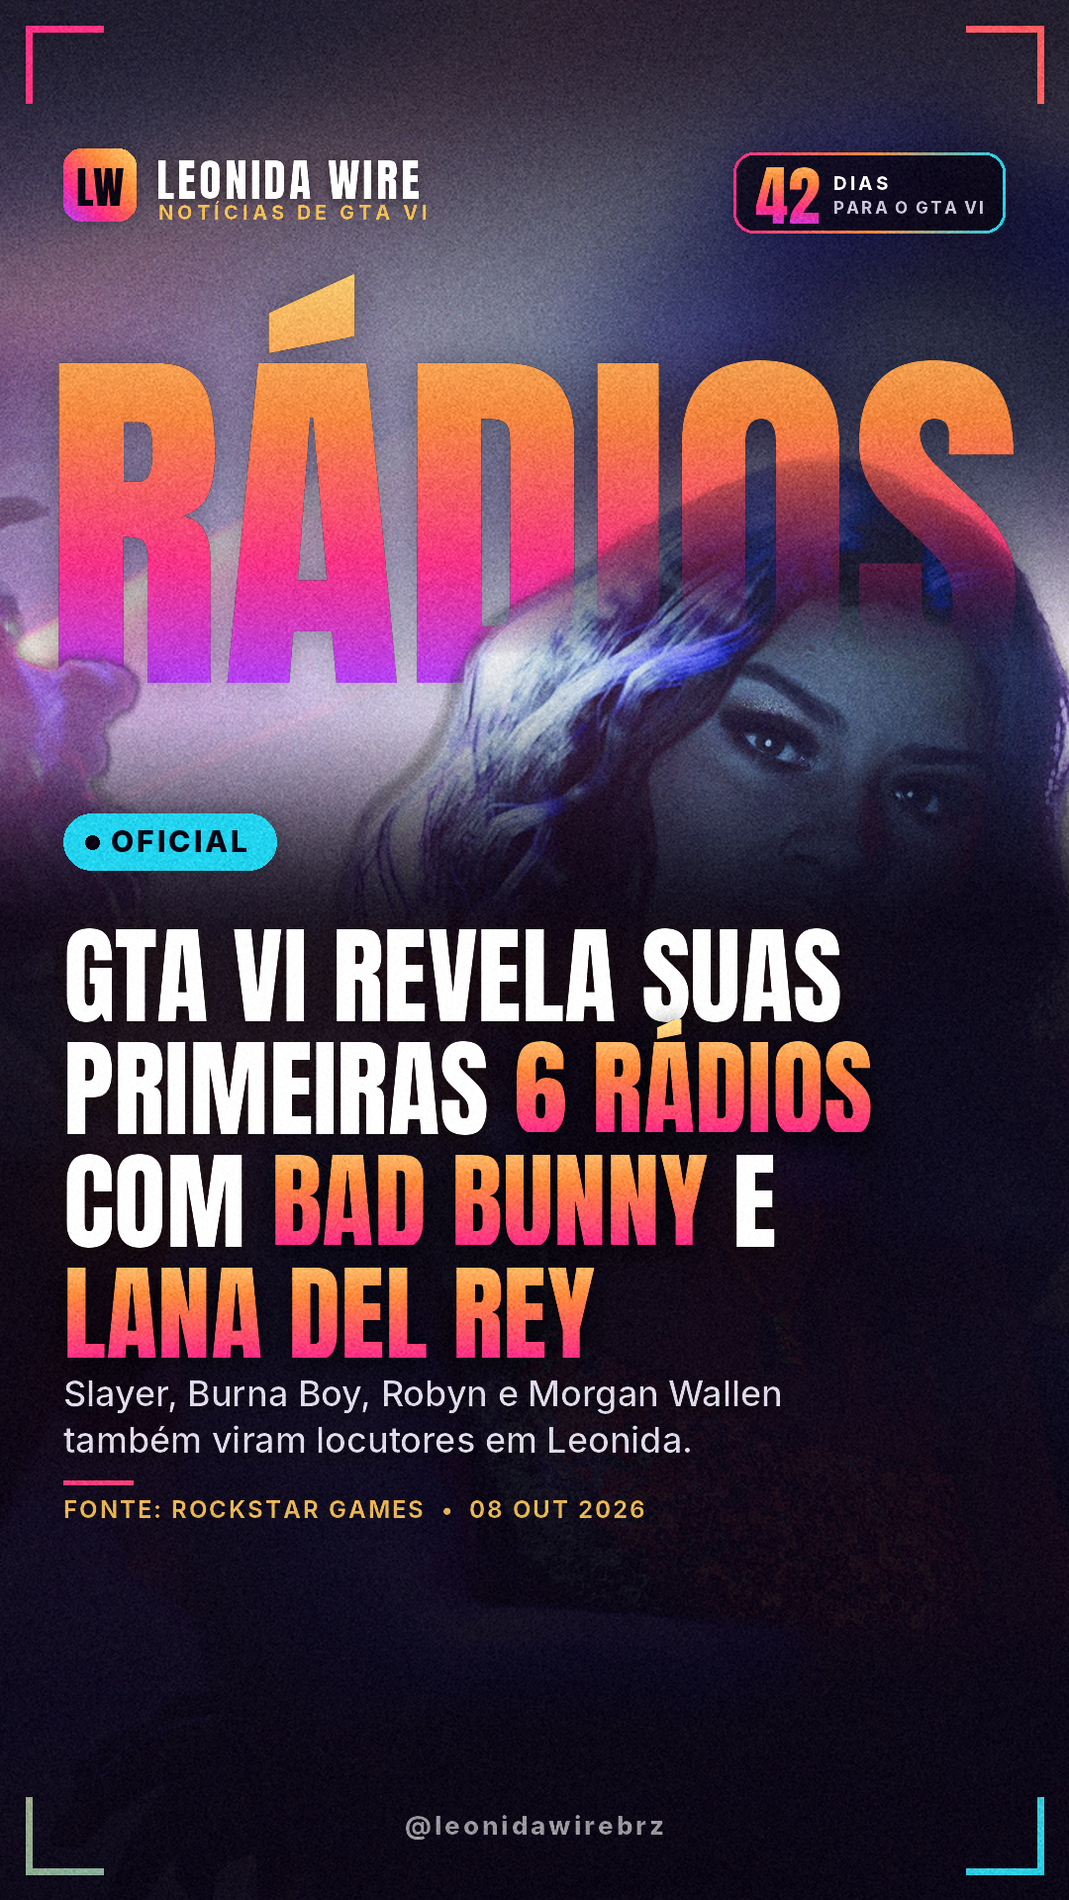
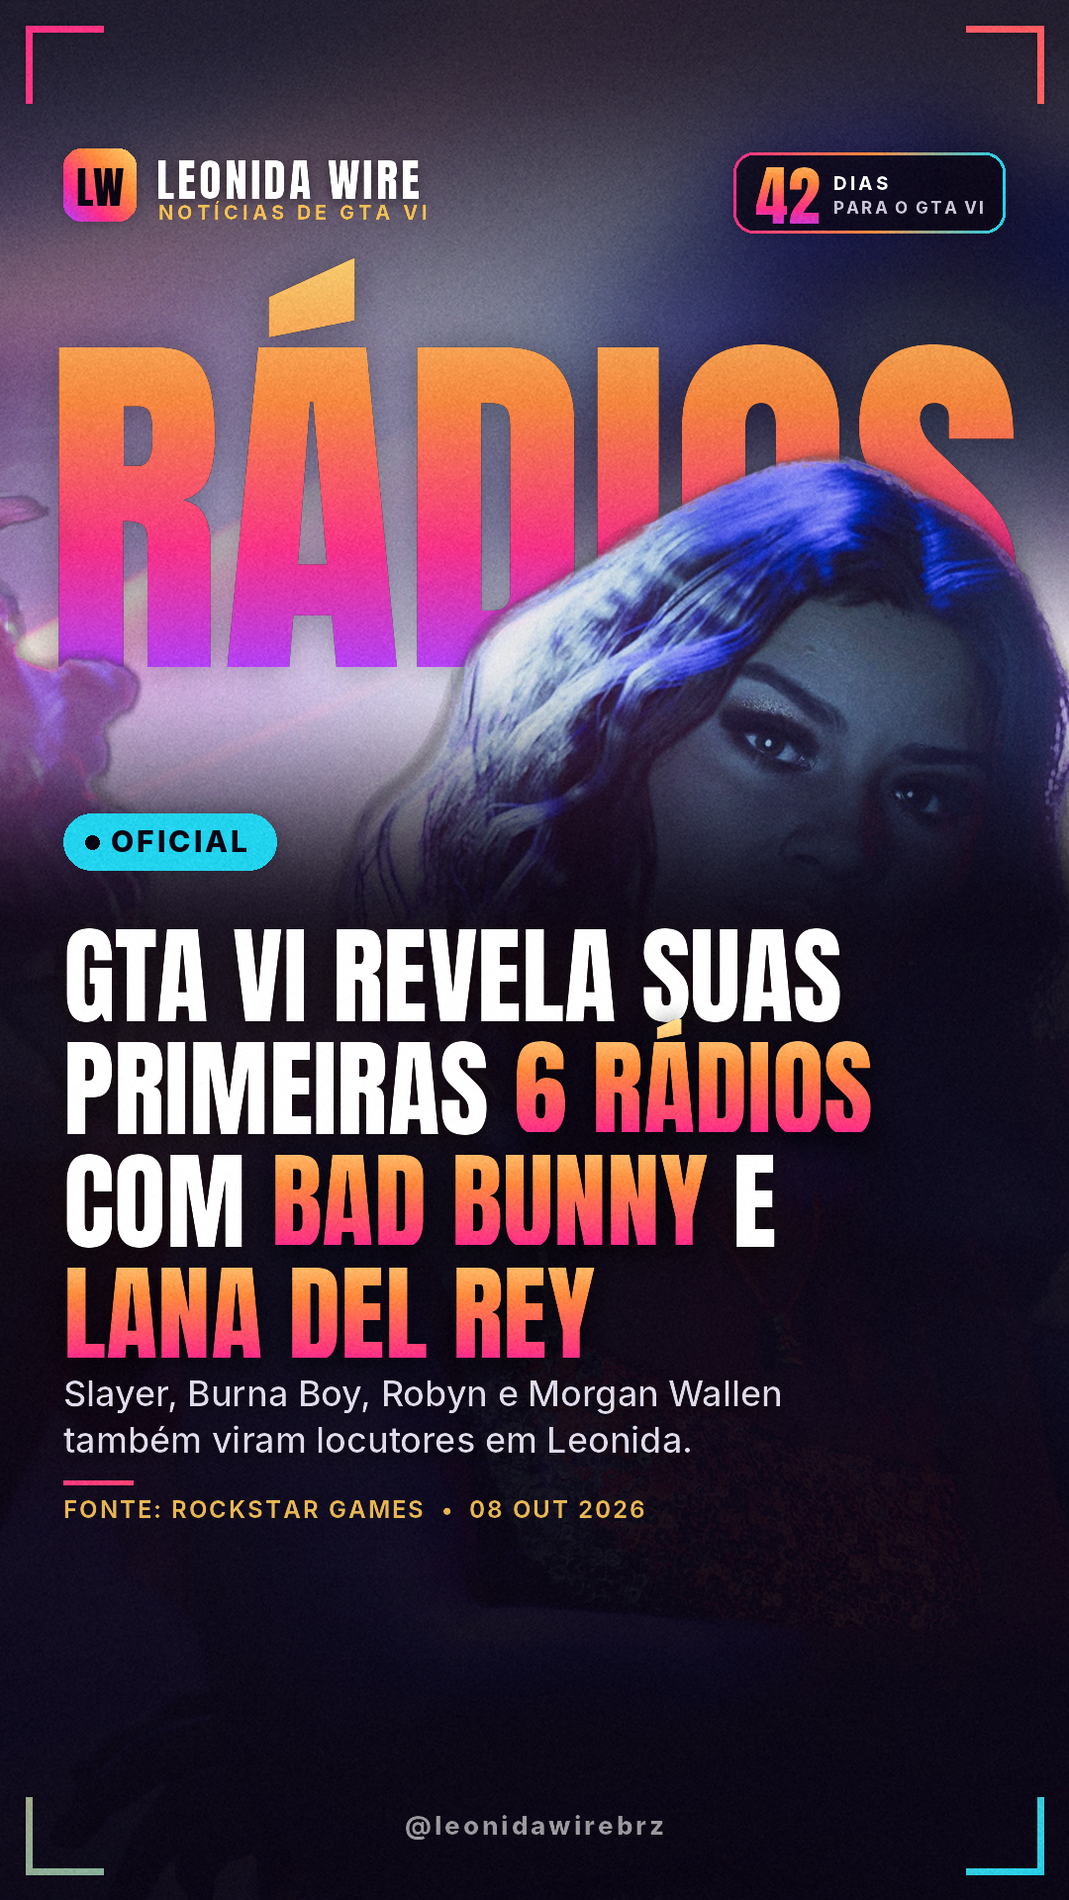
Só o perfil BR + publicação no TikTok via Metricool
- brand.yaml -> idiomas: [pt]; build, cortes e edições geram só a pasta br/
- leonida/publish.py + "python -m leonida publicacao <id>": links públicos
  (raw.githubusercontent.com, fixos no commit) e legenda para agendar no
  Metricool; state/publicados.json evita publicar duas vezes
- brand.yaml -> publicar: marca Metricool 7317240 (@leonidawirebrz);
  vazamento/rumor vão como rascunho para aprovação
- PROMPT-DIARIO e AGENTS.md: fluxo só BR, com o passo de agendamento
- Artes do post das rádios regeradas com o acabamento final

Claude-Session: https://claude.ai/code/session_01TcnL9JuzPpnbAq83wYnEJC

diff --git a/prontos/index.html b/prontos/index.html
@@ -32,7 +32,7 @@
 </head>
 <body>
 <header><h1><span>LEONIDA WIRE</span> — posts prontos</h1>
-<div class="sub">Clique em "Copiar legenda", baixe as imagens/vídeo e publique em cada perfil. Atualizado: 08/10/2026 19:16</div></header>
+<div class="sub">Clique em "Copiar legenda", baixe as imagens/vídeo e publique em cada perfil. Atualizado: 08/10/2026 19:49</div></header>
 <main><h2 class="date">2026-10-08</h2>
 <section class="post"><h3>GTA VI revela suas primeiras 6 rádios com Bad Bunny e Lana Del Rey</h3><div class="meta"><span class="tag">oficial</span>Fonte: <a href="https://www.rockstargames.com/VI/music">Rockstar Games</a></div><div class="cols"><div class="lang"><h4>🇧🇷 PERFIL BR</h4><div class="strip"><a href="2026-10-08/2026-10-08-gta6-radios-reveladas/br/01_capa.png" download><img src="2026-10-08/2026-10-08-gta6-radios-reveladas/br/01_capa.png" loading="lazy" alt=""></a><a href="2026-10-08/2026-10-08-gta6-radios-reveladas/br/02_as-6-radios-de-leonida.png" download><img src="2026-10-08/2026-10-08-gta6-radios-reveladas/br/02_as-6-radios-de-leonida.png" loading="lazy" alt=""></a><a href="2026-10-08/2026-10-08-gta6-radios-reveladas/br/03_o-que-sabemos.png" download><img src="2026-10-08/2026-10-08-gta6-radios-reveladas/br/03_o-que-sabemos.png" loading="lazy" alt=""></a><a href="2026-10-08/2026-10-08-gta6-radios-reveladas/br/04_siga.png" download><img src="2026-10-08/2026-10-08-gta6-radios-reveladas/br/04_siga.png" loading="lazy" alt=""></a></div><pre id="cap1">🎧 A Rockstar revelou as primeiras 6 rádios de GTA VI — e o line-up tá INSANO.
 

diff --git a/leonida/publish.py b/leonida/publish.py
@@ -1,0 +1,112 @@
+"""Publicação no TikTok via Metricool (parceiro oficial do TikTok).
+
+O app não fala direto com o TikTok: a API oficial exige app auditado, senão os posts saem privados.
+O Metricool já é aprovado e publica em modo público. Fluxo:
+
+  1. `python -m leonida build <id>` gera as artes em prontos/;
+  2. commit + push (o repositório é público, então cada arquivo ganha um link raw.githubusercontent.com);
+  3. `python -m leonida publicacao <id>` monta o pacote (links fixos no commit + legenda) para BR e US;
+  4. o agente agenda no Metricool (ferramenta createScheduledPost) com esse pacote;
+  5. `python -m leonida publicacao <id> --marcar br:<id-metricool> us:<id-metricool>` registra em
+     state/publicados.json, para nunca publicar duas vezes.
+"""
+from __future__ import annotations
+
+import datetime as dt
+import json
+import subprocess
+from pathlib import Path
+
+from .config import LANG_FOLDER, LANGS, OUT_DIR, ROOT, STATE_DIR, brand
+
+PUBLISHED = STATE_DIR / "publicados.json"
+IMG_EXT = (".png", ".jpg", ".jpeg", ".webp")
+VID_NAMES = ("video.mp4", "edicao.mp4", "edit.mp4", "corte.mp4", "clip.mp4")
+
+
+def cfg() -> dict:
+    c = {"repo_raw": "", "revisao_manual": ["vazamento", "rumor"], "formato": "auto",
+         "metricool": {"br": "", "us": ""}}
+    c.update(brand().get("publicar") or {})
+    return c
+
+
+def load_published() -> dict:
+    if PUBLISHED.exists():
+        return json.loads(PUBLISHED.read_text(encoding="utf-8"))
+    return {}
+
+
+def _git(*args: str) -> str:
+    return subprocess.run(["git", *args], cwd=ROOT, capture_output=True, text=True, check=True).stdout.strip()
+
+
+def _folder(post_id: str) -> Path:
+    hits = sorted(OUT_DIR.glob(f"*/{post_id}"))
+    if not hits:
+        raise FileNotFoundError(f"post não renderizado: {post_id} (rode o build antes)")
+    return hits[-1]
+
+
+def package(post_id: str) -> dict:
+    """Pacote de publicação por perfil: tipo (carrossel/vídeo), links públicos e legenda.
+
+    Os links apontam para o commit atual (não para o branch), então não mudam se a arte for
+    regenerada depois. Exige que a pasta já esteja commitada e enviada ao GitHub."""
+    c = cfg()
+    base = c["repo_raw"].rstrip("/")
+    if not base:
+        raise RuntimeError("defina publicar.repo_raw em config/brand.yaml")
+    folder = _folder(post_id)
+    rel = folder.relative_to(ROOT).as_posix()
+    if _git("status", "--porcelain", "--", rel):
+        raise RuntimeError(f"{rel} tem mudanças sem commit: faça commit + push antes de publicar")
+    sha = _git("rev-parse", "HEAD")
+    if not _git("branch", "-r", "--contains", sha):
+        raise RuntimeError("o commit atual ainda não foi enviado ao GitHub (git push)")
+    meta = json.loads((folder / "post.json").read_text(encoding="utf-8")) if (folder / "post.json").exists() else {}
+    tag = (meta.get("tag") or "").lower()
+    done = load_published().get(post_id, {})
+    out = {"id": post_id, "tag": tag, "manual_review": tag in c["revisao_manual"], "profiles": {}}
+    for lang in LANGS:
+        sub = LANG_FOLDER[lang]
+        d = folder / sub
+        if not d.exists():
+            continue
+        imgs = sorted(p.name for p in d.iterdir() if p.suffix.lower() in IMG_EXT
+                      and p.stem not in ("previa", "preview"))
+        vids = [n for n in VID_NAMES if (d / n).exists()]
+        fmt = c["formato"]
+        kind = "video" if (fmt == "video" and vids) or (fmt == "auto" and vids and not imgs) else "carrossel"
+        if kind == "carrossel" and not imgs:
+            continue
+        files = [vids[0]] if kind == "video" else imgs
+        cap_file = d / ("legenda.txt" if lang == "pt" else "caption.txt")
+        caption = cap_file.read_text(encoding="utf-8").strip() if cap_file.exists() else ""
+        title = _headline(post_id, lang) or (caption.splitlines()[0] if caption else "")
+        out["profiles"][sub] = {
+            "handle": brand()["handle"][lang],
+            "blog_id": str((c.get("metricool") or {}).get(sub) or ""),
+            "kind": kind,
+            "media": [f"{base}/{sha}/{rel}/{sub}/{n}" for n in files],
+            "caption": caption,
+            "title": title[:90],
+            "already_published": done.get(sub),
+        }
+    return out
+
+
+def _headline(post_id: str, lang: str) -> str:
+    try:
+        from . import post
+        data, _ = post.load(post_id)
+        return (data.get(lang) or {}).get("headline", "").replace("*", "")
+    except Exception:  # noqa: BLE001 — cortes/edições não têm post.yaml
+        return ""
+
+
+def mark(post_id: str, sub: str, ref: str, when: str | None = None) -> None:
+    data = load_published()
+    data.setdefault(post_id, {})[sub] = {"ref": ref, "at": when or dt.datetime.now(dt.timezone.utc).isoformat()}
+    STATE_DIR.mkdir(parents=True, exist_ok=True)
+    PUBLISHED.write_text(json.dumps(data, ensure_ascii=False, indent=1), encoding="utf-8")

diff --git a/leonida/__main__.py b/leonida/__main__.py
@@ -174,6 +174,18 @@ def cmd_editar(a):
     gallery.build()
 
 
+def cmd_publicacao(a):
+    import json as _json
+    from . import publish
+    if a.marcar:
+        for item in a.marcar:
+            sub, _, ref = item.partition(":")
+            publish.mark(a.post_id, sub, ref)
+        print(f"✅ registrado em {publish.PUBLISHED}")
+        return
+    print(_json.dumps(publish.package(a.post_id), ensure_ascii=False, indent=1))
+
+
 def cmd_musica(a):
     from . import music
     if a.arquivo:
@@ -266,7 +278,7 @@ def main(argv=None):
     r.add_argument("inicio")
     r.add_argument("fim")
     r.add_argument("--pt", required=True)
-    r.add_argument("--en", required=True)
+    r.add_argument("--en", default="", help="manchete US (só se o perfil US estiver ativo)")
     r.add_argument("--tag", default="viral")
     r.add_argument("--credito", default="")
     r.add_argument("--legendas", action="store_true", help="legenda automática (faster-whisper)")
@@ -291,6 +303,12 @@ def main(argv=None):
     r.add_argument("--sem-musica", action="store_true", help="não colocar a música tema")
     r.add_argument("--motor", default=None, choices=["auto", "hyperframes", "ffmpeg"])
     r.set_defaults(fn=cmd_editar)
+
+    r = sp.add_parser("publicacao", help="pacote para publicar no TikTok via Metricool (links + legenda)")
+    r.add_argument("post_id")
+    r.add_argument("--marcar", nargs="+", metavar="PERFIL:REF",
+                   help="registra como publicado, ex.: br:123 us:456")
+    r.set_defaults(fn=cmd_publicacao)
 
     r = sp.add_parser("musica", help="baixa/define a música tema usada nos vídeos")
     r.add_argument("url", nargs="?", help="URL do YouTube (ex.: trailer oficial)")

diff --git a/leonida/clips.py b/leonida/clips.py
@@ -19,7 +19,7 @@ from pathlib import Path
 from PIL import Image, ImageDraw
 
 from . import gfx, render
-from .config import CACHE_DIR, FONTS_DIR, OUT_DIR, brand
+from .config import CACHE_DIR, FONTS_DIR, LANGS, OUT_DIR, brand
 
 W, H = 1080, 1920
 VIDEO_TOP = 640          # topo da janela do vídeo (16:9 -> 1080x608)
@@ -174,7 +174,7 @@ Format: Layer, Start, End, Style, Name, MarginL, MarginR, MarginV, Effect, Text
 
 
 def make_clip(src: str, start: str | float, end: str | float, *, headline: dict, tag: str = "viral",
-              source: str = "", date: str | None = None, langs=("pt", "en"), subtitles: bool = False,
+              source: str = "", date: str | None = None, langs=LANGS, subtitles: bool = False,
               name: str | None = None, music_on: bool = True, log=print) -> Path:
     """Gera prontos/<data>/<nome>/{br,us}/corte.mp4 + legenda."""
     ff = shutil.which("ffmpeg")
@@ -185,7 +185,7 @@ def make_clip(src: str, start: str | float, end: str | float, *, headline: dict,
     if t1 <= t0:
         raise ValueError("fim precisa ser depois do início")
     date = date or dt.date.today().isoformat()
-    name = name or f"{date}-corte-{re.sub(r'[^a-z0-9]+', '-', headline.get('en', 'clip').lower())[:40].strip('-')}"
+    name = name or f"{date}-corte-{re.sub(r'[^a-z0-9]+', '-', (headline.get('en') or headline.get('pt') or 'clip').lower())[:40].strip('-')}"
     out_root = OUT_DIR / date / name
     work = CACHE_DIR / "clips" / name
     work.mkdir(parents=True, exist_ok=True)

diff --git a/leonida/edit.py b/leonida/edit.py
@@ -30,7 +30,7 @@ from pathlib import Path
 from PIL import Image, ImageDraw
 
 from . import clips, gfx, render
-from .config import CACHE_DIR, FONTS_DIR, HF_DIR, OUT_DIR, brand
+from .config import CACHE_DIR, FONTS_DIR, HF_DIR, LANGS, OUT_DIR, brand
 
 W, H = 1080, 1920
 FPS = 30
@@ -501,7 +501,7 @@ def contact_sheet(video: Path, out: Path, n: int = 8) -> Path:
 
 def make_edit(src: str, *, start: str | float = 0, end: str | float | None = None, duration: float = 20.0,
               style: str = "hype", layout: str = "cheio", headline: dict | None = None, tag: str = "viral",
-              source: str = "", date: str | None = None, langs=("pt", "en"), subtitles: bool = False,
+              source: str = "", date: str | None = None, langs=LANGS, subtitles: bool = False,
               audio: bool = True, music_on: bool = True, engine: str | None = None, name: str | None = None,
               log=print) -> Path:
     """Gera prontos/<data>/<nome>/{br,us}/edicao.mp4 (+ legenda e prévia)."""

diff --git a/leonida/config.py b/leonida/config.py
@@ -17,7 +17,7 @@ STATE_DIR = ROOT / "state"          # radar.json, seen.json (histórico do radar
 CACHE_DIR = Path(os.environ.get("LEONIDA_CACHE", ROOT / ".cache"))
 HF_DIR = Path(__file__).resolve().parent / "hyperframes"
 
-LANGS = ("pt", "en")
+LANGS = ("pt", "en")       # substituído abaixo por brand.yaml -> idiomas
 # Pasta de saída por idioma: br = perfil brasileiro, us = perfil americano
 LANG_FOLDER = {"pt": "br", "en": "us"}
 
@@ -46,6 +46,10 @@ def days_to_release(today: dt.date | None = None) -> int:
     today = today or dt.date.today()
     release = dt.date.fromisoformat(str(brand()["release_date"]))
     return (release - today).days
+
+
+# Idiomas/perfis ativos (brand.yaml -> idiomas). Hoje só o perfil BR (pt) é produzido.
+LANGS = tuple(brand().get("idiomas") or LANGS)
 
 
 def ensure_dirs() -> None:

diff --git a/leonida/post.py b/leonida/post.py
@@ -195,6 +195,8 @@ def _write_readme(post: dict, out: Path, manifest: dict) -> None:
     if src.get("url"):
         lines += [f"Fonte: [{src.get('name', src['url'])}]({src['url']})", ""]
     for lang, label in (("pt", "🇧🇷 Perfil BR"), ("en", "🇺🇸 Perfil US")):
+        if lang not in LANGS:
+            continue
         folder = LANG_FOLDER[lang]
         files = manifest["files"].get(folder, [])
         if not files:

diff --git a/docs/PROMPT-DIARIO.md b/docs/PROMPT-DIARIO.md
@@ -8,13 +8,13 @@ agendada usa. O relatório que o agente devolve segue o modelo da seção 2.
 ## 1. Prompt
 
 ```text
-Você é o editor-chefe do Leonida Wire, perfil de notícias de GTA VI no TikTok:
-- BR: @leonidawirebrz — português do Brasil, tom de gamer, direto.
-- US: @leonidawireusa — inglês americano, punchy.
+Você é o editor-chefe do Leonida Wire, perfil de notícias de GTA VI no TikTok
+@leonidawirebrz (português do Brasil, tom de gamer, direto). Só o perfil BR está ativo:
+não escreva nem gere versão em inglês.
 Siga o AGENTS.md (regras editoriais e estilo visual). Hoje é {data}; faltam {N} dias para 19/11/2026.
 
 OBJETIVO
-Entregar os posts novos desde a última rodada, prontos para eu só baixar e postar nos dois perfis.
+Encontrar as notícias novas desde a última rodada, produzir os posts e agendar no TikTok BR.
 
 PASSOS
 1. Rode `python -m leonida radar`. Considere só histórias que NÃO estão em `state/seen.json`
@@ -28,14 +28,30 @@ PASSOS
    contradizem, NÃO publique: liste em "Deixei de fora" com o motivo.
 4. Vazamento ou rumor: tag `vazamento`/`rumor`, deixe claro que não é oficial, use só screenshot
    oficial e não descreva conteúdo explícito.
-5. Crie `posts/<data>-<slug>/post.yaml` (BR + US). Carrossel só quando houver 3+ fatos ou imagens
+5. Crie `posts/<data>-<slug>/post.yaml` só com o bloco `pt`. Carrossel só quando houver 3+ fatos ou imagens
    que valem um slide. Imagem: screenshot oficial ou foto de matéria com ≥ 1600 px.
 6. Rode `python -m leonida build <id> --sem-video` (vídeo desligado por enquanto). Abra cada capa
    e corrija texto cortado, palavra gigante ilegível ou rosto coberto.
 7. Gere o post de contagem do dia se ainda não existir (`python -m leonida contagem`).
 8. Marque as histórias usadas como `published` e as descartadas como `descartado`
    (`radar.mark_seen([...], status)`), e rode `python -m leonida galeria`.
-9. Se não houver nada novo e relevante, não crie post: diga só "Nada novo" e o próximo assunto a vigiar.
+9. Commit + push (os links públicos das artes vêm do GitHub).
+10. PUBLICAR NO TIKTOK (Metricool). Para cada post novo, rode `python -m leonida publicacao <id>`:
+    - Perfil sem `blog_id` (config/brand.yaml → publicar.metricool) ou Metricool sem TikTok
+      conectado: não publique; avise em uma linha no relatório.
+    - `already_published` preenchido: pule (nunca publique duas vezes).
+    - Agende com a ferramenta do Metricool `createScheduledPost` no blog_id do BR (7317240), com
+      `media` = links do pacote, `text` = legenda, `providers` = tiktok,
+      `publicationDate.timezone` = America/Cuiaba (fuso da marca) e
+      `tiktokData` = {privacyOption: PUBLIC_TO_EVERYONE, title: <title>, photoCoverIndex: 0}.
+    - Horário: o melhor horário do TikTok nas próximas 12 h (`getBestTimeToPostByNetwork`), no
+      mínimo 15 min a partir de agora e com 90 min entre um post e outro. A
+      contagem regressiva sai de manhã.
+    - `manual_review: true` (vazamento, rumor): agende com `draft: true`. Fica no Metricool para
+      eu aprovar, não publica sozinho.
+    - Depois de agendar: `python -m leonida publicacao <id> --marcar br:<id-metricool>`,
+      e commit + push do state/publicados.json.
+11. Se não houver nada novo e relevante, não crie post: diga só "Nada novo" e o próximo assunto a vigiar.
 
 ENTREGA
 Responda no formato do RELATÓRIO abaixo, com as capas e legendas anexadas.
@@ -46,7 +62,7 @@ Responda no formato do RELATÓRIO abaixo, com as capas e legendas anexadas.
 ## 2. Modelo do relatório
 
 ```text
-📅 {data} · faltam {N} dias · {X} posts novos (BR + US)
+📅 {data} · faltam {N} dias · {X} posts novos
 
 POSTS
 1. [OFICIAL] {manchete curta} — {1 linha do porquê importa}
@@ -58,12 +74,12 @@ POSTS
 DEIXEI DE FORA
 - {história} — {motivo: fontes contraditórias / repetida / irrelevante / explícita}
 
-ARQUIVOS
-prontos/{data}/<post>/br/ (capa + carrossel + legenda.txt)
-prontos/{data}/<post>/us/ (cover + carousel + caption.txt)
+AGENDADO NO TIKTOK (Metricool)
+- @leonidawirebrz: {post} às {hh:mm} · {post} às {hh:mm}
+- Rascunho para aprovar: {post vazamento/rumor} → {link do Metricool}
 
-ORDEM SUGERIDA DE POSTAGEM
-{1º o oficial de maior impacto, o viral à tarde, a contagem de manhã}
+ARQUIVOS
+prontos/{data}/<post>/br/
 ```
 
 O relatório não repete a descrição do app, dos comandos nem da instalação. Essa parte fica no README.

diff --git a/AGENTS.md b/AGENTS.md
@@ -1,8 +1,9 @@
 # AGENTS.md — instruções para o Codex (e Claude Code) neste projeto
 
 Este repositório é o **Leonida Studio**: uma fábrica de posts de notícias de **GTA VI** para TikTok,
-com dois perfis — **BR** (português do Brasil) e **US** (inglês americano). O agente é o redator e
-editor-chefe: encontra a notícia, escreve o post nos dois idiomas, gera as artes e entrega pronto.
+para o perfil **BR @leonidawirebrz** (português do Brasil). O perfil US está desativado
+(`idiomas: [pt]` em `config/brand.yaml`): não escreva a parte `en`. O agente é o redator e
+editor-chefe: encontra a notícia, escreve o post, gera as artes e agenda no TikTok pelo Metricool.
 
 ## Fluxo padrão ("faz os posts de hoje")
 
@@ -28,16 +29,17 @@ Por enquanto o vídeo está desligado: use sempre `--sem-video`.
 Post diário de contagem regressiva: `python -m leonida contagem`.
 Música tema: `python -m leonida musica <url-youtube> --inicio 0:12` (todos os vídeos e cortes usam
 automaticamente; arquivo em `assets/music/`, fora do git). Downloads de vídeo: sempre via **yt-dlp**.
-Perfis: BR **@leonidawirebrz**, US **@leonidawireusa** (em `config/brand.yaml`).
+Perfil ativo: BR **@leonidawirebrz** (Metricool, marca 7317240). Publicação: passo 10 de
+`docs/PROMPT-DIARIO.md` e `python -m leonida publicacao <id>`.
 Cortes de vídeo: `python -m leonida corte <url|arquivo> 0:10 0:25 --pt "..." --en "..." --credito "..."`.
 
 ## Quando chegar um link de vídeo ("edita esse vídeo")
 
 1. Descubra do que se trata (título/canal do vídeo, matéria relacionada) e **confirme os fatos** como
-   num post normal. Escreva a manchete BR e US (≤ 70 caracteres, `*destaque*`) e escolha a tag.
+   num post normal. Escreva a manchete BR (≤ 70 caracteres, `*destaque*`) e escolha a tag.
 2. Rode a edição:
    ```bash
-   python -m leonida editar "URL" --pt "Manchete *BR*" --en "Headline *US*" --tag oficial \
+   python -m leonida editar "URL" --pt "Manchete *BR*" --tag oficial \
        --estilo hype --duracao 20            # --inicio 0:30 --fim 2:00 para usar só um trecho
    ```
    - `--estilo hype` (padrão): cortes de ~1 s, snap/crash zoom, câmera na mão, whip pan, flash.
@@ -48,7 +50,7 @@ Cortes de vídeo: `python -m leonida corte <url|arquivo> 0:10 0:25 --pt "..." --
    - Crédito: o canal do YouTube entra sozinho; use `--credito` para trocar.
 3. Abra `prontos/<data>/<id>/br/previa.jpg` (8 quadros da edição) e revise: personagem fora do
    quadro, texto em cima de rosto, trecho com conteúdo explícito. Ajuste e rode de novo.
-4. A legenda em `legenda.txt`/`caption.txt` sai só com manchete + crédito: **reescreva no formato de
+4. A legenda em `legenda.txt` sai só com manchete + crédito: **reescreva no formato de
    legenda do post** (gancho, fatos, pergunta) antes de entregar.
 5. Regras: trechos curtos de vídeo de terceiros, sempre com crédito e com edição/comentário próprio.
    Nada de vídeo vazado com conteúdo explícito.
@@ -82,8 +84,7 @@ pt:
     - type: grid                                   # grade de imagens (logos, prints)
       title: "As 6 *rádios*"
       items: [{ image: "URL", label: "Cocoteo FM", sub: "Bad Bunny & RaiNao" }]
-en:
-  # mesmos campos, em inglês americano
+# en: (só se o perfil US for reativado em brand.yaml -> idiomas)
 ```
 
 ## Regras editoriais (obrigatórias)
@@ -93,7 +94,7 @@ en:
 - **Nada explícito** (nudez, sexo, violência gráfica) — mesmo que a matéria cite. O TikTok derruba.
   Não use imagens vazadas; use screenshots oficiais.
 - Sempre credite a fonte (`source`). A legenda ganha "Fonte: X" automaticamente.
-- BR: português do Brasil, tom de gamer, direto e empolgado, sem exagero. US: inglês americano, punchy.
+- Português do Brasil, tom de gamer, direto e empolgado, sem exagero.
 - Manchete ≤ 70 caracteres, 2–4 palavras em `*destaque*`. "GTA VI" nunca quebra linha (automático).
 - Legenda: gancho na 1ª linha, fatos em linhas curtas, pergunta no final, no máx. 3 emojis.
   **Sem hashtags dentro da legenda** (vão no campo `hashtags`).
